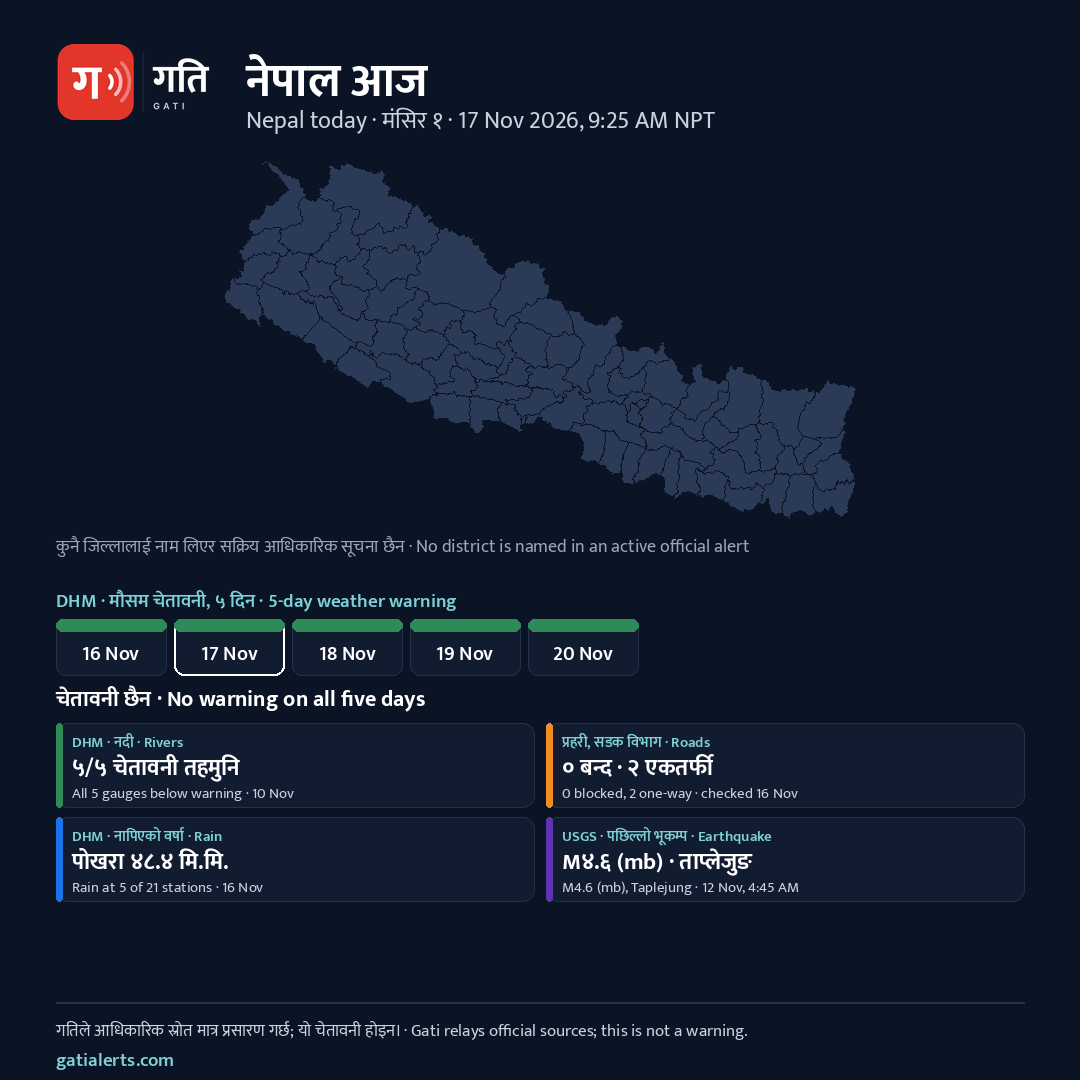
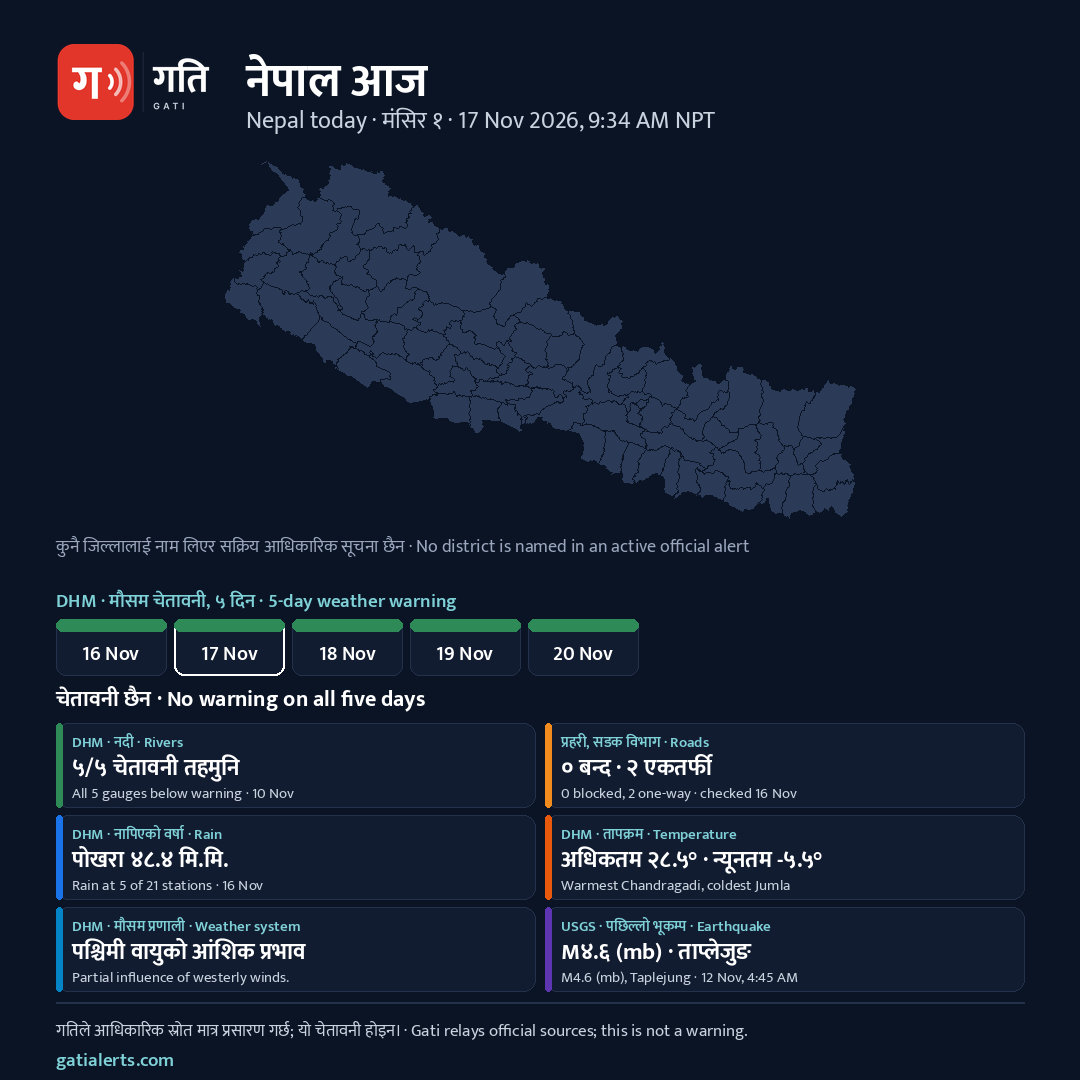
Nepal Now: a status line and real figures; six tiles on the today card
Home: the Nepal Now section opens with one sentence (no district under
alert, or which districts are) and when it was updated. The four
counters, mostly zeros on a calm day, become a 'Right now' list: alerts,
today's DHM warning, roads, rivers, measured rain, the latest
earthquake and Kathmandu airport visibility, each from its own agency
and each a link to its page. The reader's district is outlined on the
map. Category tabs keep their own counters.

Today card: adds temperature (warmest and coldest DHM stations) and
DHM's weather system line, for six tiles in three rows.

Claude-Session: https://claude.ai/code/session_017L571acW9jCVHkJzEctd51

Changed region(s): [[0.4889, 0.6722, 0.7639, 0.9167], [0.0306, 0.7639, 0.275, 0.9167], [0.55, 0.0917, 0.6417, 0.1222]]

diff --git a/lite/index.html b/lite/index.html
@@ -17,11 +17,11 @@
 </head><body>
 <h1>गति Lite · सही सूचना, सही समयमा ।</h1>
 <p><small><a class="rl" href="../about/">गतिले आधिकारिक स्रोत मात्र प्रसारण गर्छ</a></small></p>
-<p><small>बनाइएको: नोभेम्बर १७, २०२६ · ९:२५ NPT · <a href="#en">English</a> · <a href="../">पूरा साइट</a></small></p>
+<p><small>बनाइएको: नोभेम्बर १७, २०२६ · ९:३४ NPT · <a href="#en">English</a> · <a href="../">पूरा साइट</a></small></p>
 <h2>चालु सूचना (१)</h2><ul><li><b>[सामान्य · आधिकारिक]</b> DHM: कात्तिक ३० देखि मंसिर ४ सम्म पाँचै दिन देशभर कुनै मौसम चेतावनी छैन (हरियो)<br><small>स्रोत: <a href="https://dhm.gov.np/mfd/#/weather/pages/weather-warning/12431">जल तथा मौसम विज्ञान विभाग, मौसम पूर्वानुमान महाशाखा</a>, नोभेम्बर १६, २०२६ · ८:०० NPT · <a href="../alerts/np.gati.dhm-5day-bulletin-2026-11-16-0800/">पूरा</a></small></li></ul><h2>मुख्य सडक</h2><p><small>नोभेम्बर १६ (कात्तिक ३०), बिहान ९:२० NPT मा जाँचेको</small></p><ul><li>काठमाडौँ–गजुरी–मुग्लिङ (पृथ्वी): <b>खुला</b></li><li>मुग्लिङ–पोखरा: <b>खुला</b></li><li>मुग्लिङ–नारायणघाट: <b>खुला</b></li><li>नारायणघाट–बुटवल: <b>खुला</b></li><li>काठमाडौँ–हेटौँडा (त्रिभुवन राजपथ): <b>खुला</b></li><li>काठमाडौँ–सिन्धुली–बर्दिबास (बीपी): <b>खुला</b></li><li>नारायणघाट–हेटौँडा: <b>खुला</b></li><li>हेटौँडा–पथलैया: <b>खुला</b></li><li>काठमाडौँ–धुन्चे (पासाङ ल्हामु): <b>स्थिति पुष्टि भएन</b></li><li>काठमाडौँ–कोदारी (अरनिको): <b>स्थिति पुष्टि भएन</b></li><li>पोखरा–बागलुङ: <b>खुला</b></li><li>बुटवल–पाल्पा (सिद्धार्थ): <b>खुला</b></li><li>बुटवल–नेपालगन्ज (पूर्व–पश्चिम): <b>खुला</b></li><li>नेपालगन्ज–धनगढी (पूर्व–पश्चिम): <b>खुला</b></li><li>पथलैया–बर्दिबास (पूर्व–पश्चिम): <b>खुला</b></li><li>बर्दिबास–इटहरी (पूर्व–पश्चिम): <b>खुला</b></li><li>इटहरी–काँकडभिट्टा (पूर्व–पश्चिम): <b>खुला</b></li><li>राप्ती राजमार्ग: लमही–घोराही–तुलसीपुर: <b>स्थिति पुष्टि भएन</b></li><li>रत्न राजमार्ग: कोहलपुर–सुर्खेत: <b>स्थिति पुष्टि भएन</b></li><li>पूर्व–पश्चिम (महेन्द्र) राजमार्ग: अत्तरिया–महेन्द्रनगर: <b>स्थिति पुष्टि भएन</b></li><li>अत्तरिया–डडेलधुरा सडक: <b>स्थिति पुष्टि भएन</b></li><li>बागलुङ–बेनी (कालीगण्डकी करिडोर): <b>स्थिति पुष्टि भएन</b></li><li>बेनी–जोमसोम (बेनी–जोमसोम–कोरला, कालीगण्डकी करिडोर): <b>स्थिति पुष्टि भएन</b></li><li>डुम्रे–बेसीशहर (मध्यमस्याङ्दी सडक): <b>स्थिति पुष्टि भएन</b></li><li>आँबुखैरेनी–गोरखा सडक: <b>स्थिति पुष्टि भएन</b></li><li>बुटवल–भैरहवा (सिद्धार्थ राजमार्ग)–लुम्बिनी: <b>स्थिति पुष्टि भएन</b></li><li>पाल्पा–वालिङ–स्याङ्जा–पोखरा (सिद्धार्थ राजमार्ग): <b>स्थिति पुष्टि भएन</b></li><li>इटहरी–विराटनगर (कोशी राजमार्ग): <b>स्थिति पुष्टि भएन</b></li><li>ढल्केबर–जनकपुर सडक: <b>स्थिति पुष्टि भएन</b></li><li>पथलैया–वीरगन्ज (त्रिभुवन राजपथ): <b>स्थिति पुष्टि भएन</b></li><li>कर्णाली राजमार्ग: सुर्खेत–मान्म–जुम्ला: <b>एकतर्फी</b></li><li>जोमसोम–कागबेनी–मुक्तिनाथ: <b>एकतर्फी</b></li><li>बिर्तामोड–इलाम (मेची राजमार्ग): <b>स्थिति पुष्टि भएन</b></li><li>इटहरी–धरान–धनकुटा (कोशी राजमार्ग): <b>स्थिति पुष्टि भएन</b></li><li>इलाम–फिदिम (पाँचथर) सडक: <b>स्थिति पुष्टि भएन</b></li><li>फिदिम (पाँचथर)–फुङलिङ (ताप्लेजुङ) सडक: <b>स्थिति पुष्टि भएन</b></li><li>बिर्तामोड–भद्रपुर (झापा) सडक: <b>स्थिति पुष्टि भएन</b></li><li>इटहरी–इनरुवा (सुनसरी) सडक: <b>स्थिति पुष्टि भएन</b></li><li>धनकुटा–म्याङलुङ (तेह्रथुम) सडक: <b>स्थिति पुष्टि भएन</b></li><li>धनकुटा–खाँदबारी (संखुवासभा) सडक: <b>स्थिति पुष्टि भएन</b></li><li>धनकुटा–भोजपुर सडक: <b>स्थिति पुष्टि भएन</b></li><li>लहान–राजविराज (सप्तरी) सडक: <b>स्थिति पुष्टि भएन</b></li><li>लहान–सिरहा सडक: <b>स्थिति पुष्टि भएन</b></li><li>जनकपुर–जलेश्वर (महोत्तरी) सडक: <b>स्थिति पुष्टि भएन</b></li><li>बर्दिबास–मलङ्गवा (सर्लाही) सडक: <b>स्थिति पुष्टि भएन</b></li><li>पथलैया–गौर (रौतहट) सडक: <b>स्थिति पुष्टि भएन</b></li><li>पथलैया–कलैया (बारा) सडक: <b>स्थिति पुष्टि भएन</b></li><li>सिन्धुली–मन्थली (रामेछाप) सडक: <b>स्थिति पुष्टि भएन</b></li><li>काठमाडौँ–धुलिखेल (काभ्रे) सडक: <b>स्थिति पुष्टि भएन</b></li><li>काठमाडौँ–भक्तपुर सडक: <b>स्थिति पुष्टि भएन</b></li><li>काठमाडौँ–ललितपुर सडक: <b>स्थिति पुष्टि भएन</b></li><li>धुलिखेल (काभ्रे)–चरिकोट (दोलखा) सडक: <b>स्थिति पुष्टि भएन</b></li><li>धुलिखेल (काभ्रे)–चौतारा (सिन्धुपाल्चोक) सडक: <b>स्थिति पुष्टि भएन</b></li><li>काठमाडौँ–विदुर (नुवाकोट) सडक: <b>स्थिति पुष्टि भएन</b></li><li>गलौँदी–धादिङबेसी सडक: <b>स्थिति पुष्टि भएन</b></li><li>बेसीशहर–चामे (मनाङ) सडक: <b>स्थिति पुष्टि भएन</b></li><li>पोखरा–कुश्मा (पर्वत) सडक: <b>स्थिति पुष्टि भएन</b></li><li>नारायणघाट–कावासोती (नवलपुर) सडक: <b>स्थिति पुष्टि भएन</b></li><li>बुटवल–परासी (नवलपरासी पश्चिम) सडक: <b>स्थिति पुष्टि भएन</b></li><li>बुटवल–तौलिहवा (कपिलवस्तु) सडक: <b>स्थिति पुष्टि भएन</b></li><li>पाल्पा (तानसेन)–सन्धिखर्क (अर्घाखाँची) सडक: <b>स्थिति पुष्टि भएन</b></li><li>पाल्पा (तानसेन)–तम्घास (गुल्मी) सडक: <b>स्थिति पुष्टि भएन</b></li><li>लमही–प्युठान खलङ्गा सडक: <b>स्थिति पुष्टि भएन</b></li><li>घोराही (दाङ)–लिबाङ (रोल्पा) सडक: <b>स्थिति पुष्टि भएन</b></li><li>नेपालगन्ज–गुलरिया (बर्दिया) सडक: <b>स्थिति पुष्टि भएन</b></li><li>तुलसीपुर (दाङ)–सल्यान खलङ्गा सडक: <b>स्थिति पुष्टि भएन</b></li><li>सल्यान खलङ्गा–मुसिकोट (रुकुम पश्चिम) सडक: <b>स्थिति पुष्टि भएन</b></li><li>सुर्खेत (वीरेन्द्रनगर)–दैलेख सडक: <b>स्थिति पुष्टि भएन</b></li><li>डडेलधुरा–दिपायल (डोटी) सडक: <b>स्थिति पुष्टि भएन</b></li><li>दिपायल (डोटी)–मंगलसेन (अछाम) सडक: <b>स्थिति पुष्टि भएन</b></li><li>मंगलसेन (अछाम)–मार्तडी (बाजुरा) सडक: <b>स्थिति पुष्टि भएन</b></li><li>डडेलधुरा–दशरथचन्द (बैतडी) सडक: <b>स्थिति पुष्टि भएन</b></li><li>लहान–गाईघाट (उदयपुर) सडक: <b>स्थिति पुष्टि भएन</b></li><li>गाईघाट (उदयपुर)–दिक्तेल (खोटाङ) सडक: <b>स्थिति पुष्टि भएन</b></li><li>गाईघाट (उदयपुर)–ओखलढुङ्गा सडक: <b>स्थिति पुष्टि भएन</b></li><li>मुसिकोट (रुकुम पश्चिम)–रुकुमकोट (रुकुम पूर्व) सडक: <b>स्थिति पुष्टि भएन</b></li><li>जुम्ला (खलङ्गा)–गमगढी (मुगु) सडक: <b>स्थिति पुष्टि भएन</b></li><li>दिपायल (डोटी)–चैनपुर (बझाङ) सडक: <b>स्थिति पुष्टि भएन</b></li><li>ओखलढुङ्गा–सल्लेरी (सोलुखुम्बु) सडक: <b>स्थिति पुष्टि भएन</b></li><li>जुम्ला (खलङ्गा)–सिमकोट (हुम्ला) सडक: <b>स्थिति पुष्टि भएन</b></li></ul><h2>नदी</h2><p><small>नोभेम्बर १० (कात्तिक २४), बिहान ८:४० देखि ८:५० NPT बीचको पठन · <a href="https://dhm.gov.np/hydrology/river-watch">DHM</a></small></p><ul><li>नारायणी · देवघाट: ३.४ मि. (चेतावनी ७.३)</li><li>कर्णाली · चिसापानी: ४.२ मि. (चेतावनी १०.०)</li><li>कन्काई · मैनाचुली: २.३ मि. (चेतावनी ३.८)</li><li>बबई · चेपाङ: २.२ मि. (चेतावनी ५.५)</li><li>महाकाली · परिगाउँ: ३.६ मि. (चेतावनी ६.८)</li></ul>
 <hr><h2 id="en" class="h1like">Gati Lite · The right alert, right on time.</h2>
 <p><small><a class="rl" href="../about/">Gati relays official sources</a></small></p>
-<p><small>Built: 17 Nov 2026 · 9:25 AM NPT · <a href="../">Full site</a> · <a href="../atom.xml">Atom feed</a></small></p>
+<p><small>Built: 17 Nov 2026 · 9:34 AM NPT · <a href="../">Full site</a> · <a href="../atom.xml">Atom feed</a></small></p>
 <h2>Active alerts (1)</h2><ul><li><b>[Minor · Official]</b> DHM: no weather warning anywhere in Nepal for all five days, Kartik 30 to Mangsir 4 (16 to 20 Nov)<br><small>Source: <a href="https://dhm.gov.np/mfd/#/weather/pages/weather-warning/12431">Department of Hydrology and Meteorology (DHM), Meteorological Forecasting Division</a>, 16 Nov 2026 · 8:00 AM NPT · <a href="../alerts/np.gati.dhm-5day-bulletin-2026-11-16-0800/">More</a></small></li></ul><h2>Main roads</h2><p><small>checked 16 Nov (Kartik 30), 9:20 AM NPT</small></p><ul><li>Kathmandu–Gajuri–Mugling (Prithvi): <b>Open</b></li><li>Mugling–Pokhara: <b>Open</b></li><li>Mugling–Narayanghat: <b>Open</b></li><li>Narayanghat–Butwal: <b>Open</b></li><li>Kathmandu–Hetauda (Tribhuvan Rajpath): <b>Open</b></li><li>Kathmandu–Sindhuli–Bardibas (BP): <b>Open</b></li><li>Narayanghat–Hetauda: <b>Open</b></li><li>Hetauda–Pathlaiya: <b>Open</b></li><li>Kathmandu–Dhunche (Pasang Lhamu): <b>Not confirmed</b></li><li>Kathmandu–Kodari (Araniko): <b>Not confirmed</b></li><li>Pokhara–Baglung: <b>Open</b></li><li>Butwal–Palpa (Siddhartha): <b>Open</b></li><li>Butwal–Nepalgunj (East–West): <b>Open</b></li><li>Nepalgunj–Dhangadhi (East–West): <b>Open</b></li><li>Pathlaiya–Bardibas (East–West): <b>Open</b></li><li>Bardibas–Itahari (East–West): <b>Open</b></li><li>Itahari–Kakarbhitta (East–West): <b>Open</b></li><li>Rapti Highway: Lamahi–Ghorahi–Tulsipur: <b>Not confirmed</b></li><li>Ratna Highway: Kohalpur–Surkhet: <b>Not confirmed</b></li><li>East–West (Mahendra) Highway: Attariya–Mahendranagar: <b>Not confirmed</b></li><li>Attariya–Dadeldhura road: <b>Not confirmed</b></li><li>Baglung–Beni (Kaligandaki corridor): <b>Not confirmed</b></li><li>Beni–Jomsom (Beni–Jomsom–Korala, Kaligandaki corridor): <b>Not confirmed</b></li><li>Dumre–Besisahar (Madhyamarsyangdi road): <b>Not confirmed</b></li><li>Abukhaireni–Gorkha road: <b>Not confirmed</b></li><li>Butwal–Bhairahawa (Siddhartha Highway)–Lumbini: <b>Not confirmed</b></li><li>Palpa–Waling–Syangja–Pokhara (Siddhartha Highway): <b>Not confirmed</b></li><li>Itahari–Biratnagar (Koshi Highway): <b>Not confirmed</b></li><li>Dhalkebar–Janakpur road: <b>Not confirmed</b></li><li>Pathlaiya–Birgunj (Tribhuvan Rajpath): <b>Not confirmed</b></li><li>Karnali Highway: Surkhet–Manma–Jumla: <b>One-way</b></li><li>Jomsom–Kagbeni–Muktinath: <b>One-way</b></li><li>Birtamod–Ilam (Mechi Highway): <b>Not confirmed</b></li><li>Itahari–Dharan–Dhankuta (Koshi Highway): <b>Not confirmed</b></li><li>Ilam–Phidim (Panchthar) road: <b>Not confirmed</b></li><li>Phidim (Panchthar)–Phungling (Taplejung) road: <b>Not confirmed</b></li><li>Birtamod–Bhadrapur (Jhapa) road: <b>Not confirmed</b></li><li>Itahari–Inaruwa (Sunsari) road: <b>Not confirmed</b></li><li>Dhankuta–Myanglung (Terhathum) road: <b>Not confirmed</b></li><li>Dhankuta–Khandbari (Sankhuwasabha) road: <b>Not confirmed</b></li><li>Dhankuta–Bhojpur road: <b>Not confirmed</b></li><li>Lahan–Rajbiraj (Saptari) road: <b>Not confirmed</b></li><li>Lahan–Siraha road: <b>Not confirmed</b></li><li>Janakpur–Jaleshwar (Mahottari) road: <b>Not confirmed</b></li><li>Bardibas–Malangwa (Sarlahi) road: <b>Not confirmed</b></li><li>Pathlaiya–Gaur (Rautahat) road: <b>Not confirmed</b></li><li>Pathlaiya–Kalaiya (Bara) road: <b>Not confirmed</b></li><li>Sindhuli–Manthali (Ramechhap) road: <b>Not confirmed</b></li><li>Kathmandu–Dhulikhel (Kavre) road: <b>Not confirmed</b></li><li>Kathmandu–Bhaktapur road: <b>Not confirmed</b></li><li>Kathmandu–Lalitpur road: <b>Not confirmed</b></li><li>Dhulikhel (Kavre)–Charikot (Dolakha) road: <b>Not confirmed</b></li><li>Dhulikhel (Kavre)–Chautara (Sindhupalchok) road: <b>Not confirmed</b></li><li>Kathmandu–Bidur (Nuwakot) road: <b>Not confirmed</b></li><li>Galaudi–Dhading Besi road: <b>Not confirmed</b></li><li>Besisahar–Chame (Manang) road: <b>Not confirmed</b></li><li>Pokhara–Kusma (Parbat) road: <b>Not confirmed</b></li><li>Narayanghat–Kawasoti (Nawalpur) road: <b>Not confirmed</b></li><li>Butwal–Parasi (Nawalparasi West) road: <b>Not confirmed</b></li><li>Butwal–Taulihawa (Kapilvastu) road: <b>Not confirmed</b></li><li>Palpa (Tansen)–Sandhikharka (Arghakhanchi) road: <b>Not confirmed</b></li><li>Palpa (Tansen)–Tamghas (Gulmi) road: <b>Not confirmed</b></li><li>Lamahi–Pyuthan Khalanga road: <b>Not confirmed</b></li><li>Ghorahi (Dang)–Liwang (Rolpa) road: <b>Not confirmed</b></li><li>Nepalgunj–Gulariya (Bardiya) road: <b>Not confirmed</b></li><li>Tulsipur (Dang)–Salyan Khalanga road: <b>Not confirmed</b></li><li>Salyan Khalanga–Musikot (Rukum West) road: <b>Not confirmed</b></li><li>Surkhet (Birendranagar)–Dailekh road: <b>Not confirmed</b></li><li>Dadeldhura–Dipayal (Doti) road: <b>Not confirmed</b></li><li>Dipayal (Doti)–Mangalsen (Achham) road: <b>Not confirmed</b></li><li>Mangalsen (Achham)–Martadi (Bajura) road: <b>Not confirmed</b></li><li>Dadeldhura–Dasharathchand (Baitadi) road: <b>Not confirmed</b></li><li>Lahan–Gaighat (Udayapur) road: <b>Not confirmed</b></li><li>Gaighat (Udayapur)–Diktel (Khotang) road: <b>Not confirmed</b></li><li>Gaighat (Udayapur)–Okhaldhunga road: <b>Not confirmed</b></li><li>Musikot (Rukum West)–Rukumkot (Rukum East) road: <b>Not confirmed</b></li><li>Jumla (Khalanga)–Gamgadhi (Mugu) road: <b>Not confirmed</b></li><li>Dipayal (Doti)–Chainpur (Bajhang) road: <b>Not confirmed</b></li><li>Okhaldhunga–Salleri (Solukhumbu) road: <b>Not confirmed</b></li><li>Jumla (Khalanga)–Simikot (Humla) road: <b>Not confirmed</b></li></ul><h2>Rivers</h2><p><small>10 Nov (Kartik 24), readings 8:40 to 8:50 AM NPT · <a href="https://dhm.gov.np/hydrology/river-watch">DHM</a></small></p><ul><li>Narayani at Devghat: 3.4 m (warning 7.3)</li><li>Karnali at Chisapani: 4.2 m (warning 10.0)</li><li>Kankai at Mainachuli: 2.3 m (warning 3.8)</li><li>Babai at Chepang: 2.2 m (warning 5.5)</li><li>Mahakali at Parigaon: 3.6 m (warning 6.8)</li></ul>
 <hr><footer><p class="d"><strong>गति आफैँ कुनै आधिकारिक चेतावनी जारी गर्दैन।</strong> यसले जिम्मेवार सरकारी निकायकै सूचना, स्रोतसहित, फैलाउने र जाँच्ने काम मात्र गर्छ (विपद् जोखिम न्यूनीकरण तथा व्यवस्थापन ऐन, २०७४)। आपत्कालमा १००, १०१, १०२ वा १२३४ मा फोन गर्नुहोस्।</p><p class="d"><strong>Gati does not issue official warnings.</strong> It only relays and verifies notices from the mandated government agencies, always with the source (Disaster Risk Reduction and Management Act 2074). In an emergency call 100, 101, 102 or 1234.</p></footer>
 <hr><p><small>प्रहरी १०० · दमकल १०१ · एम्बुलेन्स १०२ · विपद् १२३४ · <a href="../alerts/">सबै सूचना / Archive</a> · <a href="../sources/">स्रोत / Sources</a></small></p>

diff --git a/assets/js/homemap.js b/assets/js/homemap.js
@@ -24,11 +24,11 @@
     fetch(`https://air-quality-api.open-meteo.com/v1/air-quality?latitude=${CITIES.map((c) => c[2]).join(",")}&longitude=${CITIES.map((c) => c[3]).join(",")}&current=us_aqi&timezone=Asia%2FKathmandu`).then((r) => (r.ok ? r.json() : null))
       .then((d) => { AQ = d ? (Array.isArray(d) ? d : [d]) : []; if (cat === "weather") draw(); }).catch(() => { AQ = []; if (cat === "weather") draw(); }); }
   const QMS = 30 * 864e5, qmag = (a) => parseFloat((a.info.en.params || {})["gati:magnitude"] || "") || null;
-  const go = () => Promise.all(["data/districts.geojson", "data/alerts.json", "data/arnab-advisory.json", "data/roads.json", "data/rivers.json"].map((p) => G.rawJson(p).catch(() => null))).then(([dg, al, ar, rd, rv]) => {
+  const go = () => Promise.all(["data/districts.geojson", "data/alerts.json", "data/arnab-advisory.json", "data/roads.json", "data/rivers.json", "data/weather.json"].map((p) => G.rawJson(p).catch(() => null))).then(([dg, al, ar, rd, rv, wx]) => {
     if (!dg || !al) { box.querySelector(".hmw").innerHTML = `<p class="meta">${T("नक्सा लोड भएन।", "Map could not load.")}</p>`; return; }
-    S = { dg, al: al.alerts, ar, rd, rv, paths: {}, cen: {} }; dg.features.forEach((f) => { S.paths[f.properties.code] = pth(f.geometry); S.cen[f.properties.code] = ctr(f.geometry); });
+    S = { dg, al: al.alerts, gen: al.generated, ar, rd, rv, wx, paths: {}, cen: {} }; dg.features.forEach((f) => { S.paths[f.properties.code] = pth(f.geometry); S.cen[f.properties.code] = ctr(f.geometry); });
     if (ar && today <= ar.days[ar.days.length - 1].ad) { const i = ar.days.findIndex((d) => d.ad >= today); day = ar.days[Math.max(0, i)].ad; }
-    draw(); G.onLang(draw);
+    draw(); G.onLang(draw); addEventListener("gati:district", draw); if (G.airwx) { G.airwx.on(() => cat === "all" && !sel && draw()); G.airwx.load(); }
   });
   if ("IntersectionObserver" in window) { const io = new IntersectionObserver((es) => { if (es.some((e) => e.isIntersecting)) { io.disconnect(); go(); } }, { rootMargin: "300px" }); io.observe(box); } else go();
   /* active items for the chosen day (or now): official, not expired, not superseded */
@@ -43,8 +43,9 @@
   function draw() {
     const L = items(), top = {}, nat = L.filter((x) => !x.ds.length);
     L.forEach((x) => x.ds.forEach((c) => { if ((RK[x.sev] || 0) > (RK[top[c]] || 0)) top[c] = x.sev; }));
+    const mine = (G.district && G.district.get && G.district.get()) || "";
     const dist = S.dg.features.map((f) => { const c = f.properties.code, s = top[c];
-      return `<path d="${S.paths[c]}" data-c="${c}" class="hmd${s ? " s-" + s : ""}${sel === c ? " on" : ""}" tabindex="0" role="button" aria-label="${E(T(f.properties.ne, f.properties.en))}${s ? ": " + E(T(G.SEV[s][0], G.SEV[s][1])) : ""}"/>`; }).join("");
+      return `<path d="${S.paths[c]}" data-c="${c}" class="hmd${s ? " s-" + s : ""}${sel === c ? " on" : ""}${mine === c ? " me" : ""}" tabindex="0" role="button" aria-label="${E(T(f.properties.ne, f.properties.en))}${s ? ": " + E(T(G.SEV[s][0], G.SEV[s][1])) : ""}"/>`; }).join("");
     /* small icons: blocked roads (Nepal Police road alerts by district; roads.json routes marked blocked) and DHM gauges at warning or danger */
     const ic = [];
     (cat === "all" || cat === "road") && L.filter((x) => x.road).forEach((x) => x.ds.forEach((c) => S.cen[c] && ic.push(`<g class="hmi hmr" transform="translate(${X(S.cen[c][0])},${Y(S.cen[c][1])})"><title>${E(x.head)}</title><rect x="-6" y="-6" width="12" height="12" rx="2.5"/><path class="hmbar" d="M-3.6 0H3.6"/></g>`)));
@@ -84,11 +85,38 @@
     const nRoad = ic.slice(0, icA).filter((x) => x.includes("hmr")).length;
     const stat = (n, ne, en, k) => `<div class="hmst${n ? " " + k : ""}"><b>${N(n)}</b><span>${T(ne, en)}</span></div>`;
     const stats = `<div class="hmstats">${stat(named.length, "सूचना भएका जिल्ला", "Districts with alerts", "a")}${cat === "all" || cat === "road" ? stat(nRoad, "सडक अवरुद्ध", "Roads blocked", "r") : ""}${cat === "all" || cat === "flood" ? stat(hot.length, "नदी चेतावनी तहमा", "Rivers at warning", "v") : ""}${stat(nat.length, "देशव्यापी सूचना", "Nationwide notices", "n")}</div>`;
+    /* "Right now": one line per subject, each from its own agency, each a link to its page. Never added together. */
+    const MO = ["Jan", "Feb", "Mar", "Apr", "May", "Jun", "Jul", "Aug", "Sep", "Oct", "Nov", "Dec"], MON = ["जनवरी", "फेब्रुअरी", "मार्च", "अप्रिल", "मे", "जुन", "जुलाई", "अगस्ट", "सेप्टेम्बर", "अक्टोबर", "नोभेम्बर", "डिसेम्बर"];
+    const dm = (iso) => { const d = new Date(Date.parse(iso) + G.tzMs); return isNaN(d) ? "" : T(MON[d.getUTCMonth()] + " " + N(d.getUTCDate()), d.getUTCDate() + " " + MO[d.getUTCMonth()]); };
+    const GOOD = "#1e8e3e", WARN = "#B26A00", BAD = "#C5221F", INFO = "#5E35B1", rows = [];
+    const sevCol = { Extreme: "#8E1B14", Severe: BAD, Moderate: "#E8590C", Minor: WARN };
+    rows.push({ href: R + "alerts/", c: named.length ? sevCol[top[named[0]]] || WARN : GOOD, k: T("सूचना", "Alerts"),
+      v: named.length ? T(N(named.length) + " जिल्लामा सक्रिय", named.length + " district" + (named.length > 1 ? "s" : "") + " under alert") : T("जिल्ला तोकिएको सूचना छैन", "No district alert"),
+      n: named.length ? named.slice(0, 3).map(fname).join(", ") + (named.length > 3 ? " +" + N(named.length - 3) : "") : T("आधिकारिक निकायबाट", "from official agencies") });
+    const b5 = S.wx && S.wx.bulletin5, d0 = b5 && b5.days && (b5.days.find((x) => x.ad === today) || null);
+    if (d0) { const LVN = { green: ["चेतावनी छैन", "No warning", GOOD], yellow: ["अद्यावधिक रहनुहोस्", "Be updated", WARN], orange: ["सतर्क रहनुहोस्", "Be prepared", "#E8590C"], red: ["कारबाही गर्नुहोस्", "Take action", BAD] }[d0.level] || ["", "", GOOD];
+      const nx = b5.days.find((x) => x.ad > today && x.level !== "green");
+      rows.push({ href: R + "weather/", c: LVN[2], k: T("आजको मौसम चेतावनी", "Weather warning today"), v: T(LVN[0], LVN[1]), n: "DHM · " + (nx ? T("अर्को चेतावनी " + dm(nx.ad + "T12:00:00+05:45"), "next warning " + dm(nx.ad + "T12:00:00+05:45")) : T("५ दिनमा अरू चेतावनी छैन", "none in the 5-day outlook")) }); }
+    if (S.rd && S.rd.routes) { const c = (st) => S.rd.routes.filter((r) => r.status === st).length, bl = c("blocked"), ow = c("oneway");
+      rows.push({ href: R + "roads/", c: bl ? BAD : ow ? WARN : GOOD, k: T("मुख्य सडक", "Main roads"), v: T(N(bl) + " बन्द · " + N(ow) + " एकतर्फी", bl + " blocked · " + ow + " one-way"), n: T("प्रहरी, सडक विभाग", "Police, DoR") + " · " + E(T(S.rd.as_of_ne, S.rd.as_of_en).split(/\s*\(|,/)[0]) }); }
+    if (S.rv && S.rv.gauges && S.rv.gauges.length) { const h = S.rv.gauges.filter((g) => g.level >= g.warning).length, n = S.rv.gauges.length;
+      rows.push({ href: R + "rivers/", c: h ? BAD : GOOD, k: T("नदी", "Rivers"), v: h ? T(N(h) + "/" + N(n) + " चेतावनी तहमाथि", h + " of " + n + " above warning") : T(N(n) + "/" + N(n) + " चेतावनी तहमुनि", "All " + n + " below warning"), n: "DHM · " + E(T(S.rv.as_of_ne, S.rv.as_of_en).split(/\s*\(|,/)[0]) }); }
+    const ob = S.wx && S.wx.station_obs;
+    if (ob && ob.stations && ob.stations.length) { const wet = ob.stations.filter((x) => (x.rain_mm || 0) > 0).sort((a, b) => b.rain_mm - a.rain_mm);
+      rows.push({ href: R + "weather/", c: wet.length ? "#1a73e8" : GOOD, k: T("नापिएको वर्षा", "Measured rain"), v: wet.length ? E(T(wet[0].ne, wet[0].en)) + " " + N(wet[0].rain_mm) + T(" मि.मि.", " mm") : T("कुनै केन्द्रमा छैन", "None recorded"),
+        n: "DHM · " + T(N(wet.length) + "/" + N(ob.stations.length) + " केन्द्रमा", wet.length + " of " + ob.stations.length + " stations") + " · " + dm(ob.issued) }); }
+    const lastq = S.al.filter((a) => a.hazard === "earthquake" && a.trust === "Official").sort((a, b) => Date.parse(b.sent) - Date.parse(a.sent))[0];
+    if (lastq) { const m = ((lastq.info.en.params || {})["gati:magnitude"] || "").replace(/\s*\(.*\)/, ""), where = (lastq.districts || []).slice(0, 1).map(fname).join("");
+      rows.push({ href: R + "alerts/" + lastq.identifier + "/", c: INFO, k: T("पछिल्लो भूकम्प", "Latest earthquake"), v: E(N(m) + (where ? " · " + where : "")), n: E(AG[lastq.sender] ? T(...AG[lastq.sender]) : ({ "earthquake.usgs.gov": "USGS", "seismonepal.gov.np": "NSC" })[lastq.sender] || lastq.sender) + " · " + dm(lastq.sent) }); }
+    if (G.airwx) { const kt = G.airwx.all().find((x) => x.a.icao === "VNKT" && x.o);
+      if (kt) rows.push({ href: R + "flights/", c: G.airwx.CAT[kt.cat][2], k: T("काठमाडौँ विमानस्थल", "Kathmandu airport"), v: T("दृश्यता ", "Visibility ") + G.airwx.km(kt.o.vis), n: kt.o.kind === "official" ? "METAR · " + dm(kt.o.time) : T("मोडेलको अनुमान", "model estimate") }); }
+    const nowlist = `<ul class="hmnow">${rows.map((r) => `<li><a href="${r.href}" style="--c:${r.c}"><i aria-hidden="true"></i><span class="hmk">${r.k}</span><b>${r.v}</b><small>${r.n}</small></a></li>`).join("")}</ul>`;
+    const calm = !named.length, status = cat !== "all" ? "" : `<p class="hmstatus${calm ? " ok" : ""}" style="--c:${calm ? GOOD : sevCol[top[named[0]]] || WARN}"><b>${calm ? T("अहिले कुनै जिल्लामा सक्रिय आधिकारिक सूचना छैन।", "No district is under an active official alert right now.") : T(N(named.length) + " जिल्लामा सक्रिय आधिकारिक सूचना: " + named.slice(0, 4).map(fname).join(", ") + (named.length > 4 ? " …" : ""), named.length + " district" + (named.length > 1 ? "s" : "") + " under an active official alert: " + named.slice(0, 4).map(fname).join(", ") + (named.length > 4 ? " …" : ""))}</b>${S.gen ? `<span>${T("अद्यावधिक", "Updated")} ${G.npt(S.gen)}</span>` : ""}</p>`;
     const dlist = named.length ? `<ul class="hmdl">${named.slice(0, 8).map((c) => `<li><button type="button" data-c="${c}"${sel === c ? ' aria-pressed="true"' : ""}><i class="s-${top[c]}"></i><span>${E(fname(c))}</span><em>${E(T(G.SEV[top[c]][0], G.SEV[top[c]][1]))}${cnt[c] > 1 ? " · " + N(cnt[c]) : ""}</em></button></li>`).join("")}</ul>${named.length > 8 ? `<p class="meta">${T("र अरू " + N(named.length - 8) + " जिल्ला। नक्सामा हेर्नुहोस्।", "and " + (named.length - 8) + " more districts. See the map.")}</p>` : ""}` : `<p class="hmcalm">${T("कुनै जिल्लालाई नाम लिएर सक्रिय आधिकारिक सूचना छैन।", "No district is named in an active official alert.")}</p>`;
     /* names on the map for the districts with alerts (largest screens only, set in CSS) */
     const lab = named.slice(0, 10).map((c) => S.cen[c] ? `<text class="hmlab" x="${X(S.cen[c][0])}" y="${(+Y(S.cen[c][1]) - 13).toFixed(1)}">${E(fname(c))}</text>` : "").join("");
-    box.innerHTML = `${head}${none}${slider}<div class="hmgrid"><div class="hmmain"><div class="hmw"><svg viewBox="0 0 ${W} ${H}" preserveAspectRatio="xMidYMid meet" class="hmsvg"><g class="hmland">${dist}</g>${ic.join("")}${lab}</svg></div>${leg}</div>
-      <aside class="hmside" aria-label="${E(T("अहिलेको सारांश", "Right now"))}"><h3>${T("अहिले", "Right now")}</h3>${stats}<h3>${T("सूचना भएका जिल्ला", "Districts with alerts")}</h3>${dlist}<div class="hmsheet" id="hmsheet" aria-live="polite">${sel ? sheet(sel, L) : ""}</div></aside></div>${cxtxt}${note}
+    box.innerHTML = `${head}${cat === "all" ? status : none}${slider}<div class="hmgrid"><div class="hmmain"><div class="hmw"><svg viewBox="0 0 ${W} ${H}" preserveAspectRatio="xMidYMid meet" class="hmsvg"><g class="hmland">${dist}</g>${ic.join("")}${lab}</svg></div>${leg}</div>
+      <aside class="hmside" aria-label="${E(T("अहिलेको सारांश", "Right now"))}"><h3>${T("अहिले", "Right now")}</h3>${cat === "all" ? nowlist + (named.length ? `<h3>${T("सूचना भएका जिल्ला", "Districts with alerts")}</h3>${dlist}` : "") : stats + `<h3>${T("सूचना भएका जिल्ला", "Districts with alerts")}</h3>${dlist}`}<div class="hmsheet" id="hmsheet" aria-live="polite">${sel ? sheet(sel, L) : ""}</div></aside></div>${cxtxt}${note}
       ${nat.length ? `<details class="hmnat"${cat === "weather" ? " open" : ""}><summary>${T("देशव्यापी आधिकारिक सूचना", "Nationwide official notices")}: ${[...new Set(nat.map((x) => x.ag))].map((a) => `${E(a)} ${N(nat.filter((x) => x.ag === a).length)}`).join(" · ")}</summary>${list(nat)}</details>` : ""}
 `;
     bind();

diff --git a/sw.js b/sw.js
@@ -1,7 +1,7 @@
 /* Gati service worker: offline last-known state. Push only behind a flag (needs VAPID keys and a sender).
    Pages and data: network first, fall back to the last copy saved. Assets: cache first, refreshed in the background. */
 const VERSION = "gati-v140";
-const BUILD = "20261117T0926"; /* written by scripts/stamp.py (pre-commit hook and render.py) */
+const BUILD = "20261117T0934"; /* written by scripts/stamp.py (pre-commit hook and render.py) */
 const CACHE_NAME = VERSION + "-" + BUILD;
 const CORE = ["./", "index.html", "sources/", "about/", "me/", "assets/js/me.js", "notifications/", "assets/js/notif.js", "api/", "alerts/", "feed/", "stories/", "log/", "assets/js/log.js", "offline/", "data/navigate.json", "assets/js/navigate.js", "assets/js/bs.js", "data/weather.json", "data/calendar.json", "data/contacts.json", "weather/", "trek/", "assets/js/trek.js", "assets/js/trekcard.js", "assets/js/homemap.js", "fuel/", "assets/js/fuel.js", "data/fuel.json", "health/", "assets/js/health.js", "data/health.json", "assets/js/trekcheck.js", "assets/js/homeinfo.js", "data/caan.json", "data/geo/trekinfo.json", "data/trek-meta.json", "data/trek-permits.json", "data/geo/treks.geojson", "data/travel-advisory.json", "contacts/", "privacy/", "safety/", "route/", "assets/js/wxmodel.js", "earthquakes/", "air/", "assets/js/quakes.js", "assets/js/route.js", "assets/js/routeeng.js", "assets/js/nearby.js", "assets/js/askpop.js", "assets/js/watch.js", "assets/js/services.js", "assets/js/contacts.js", "assets/js/weather.js", "map/", "rivers/", "roads/", "assets/js/stories.js", "assets/js/district.js", "patro/", "ask/", "patro/gati.ics", "assets/js/patro.js", "manifest.webmanifest", "assets/css/gati.css", "assets/sdg/sdg-01.webp", "assets/sdg/sdg-09.webp", "assets/sdg/sdg-11.webp", "assets/sdg/sdg-13.webp", "assets/sdg/sdg-16.webp", "assets/fonts/fonts.css", "assets/js/common.js",
   "assets/js/home.js", "assets/js/viz.js", "assets/js/homeviz.js", "assets/js/pageviz.js", "assets/js/sources.js", "flights/", "assets/js/flights.js", "assets/js/globallive.js", "assets/vendor/leaflet/leaflet.css", "assets/vendor/leaflet/leaflet.js", "assets/js/mapx.js", "assets/js/affectcore.js", "assets/js/affected.js", "assets/js/todaycard.js", "assets/js/motion.js", "assets/js/sky.js", "assets/js/dash.js", "assets/js/push.js", "assets/js/search.js", "assets/js/locale.js", "assets/vendor/protomaps-leaflet/protomaps-leaflet.js", "data/offline/basemap.json", "data/i18n/index.json", "data/country.json", "affected/", "assets/img/brand/logo-h.png", "assets/img/brand/logo-h-white.png", "assets/img/brand/logo-h-base.png", "assets/img/brand/logo-h-arc1.png", "assets/img/brand/logo-h-arc2.png", "assets/img/brand/logo-h-arc3.png", "assets/img/brand/logo-h-white-base.png", "assets/img/brand/logo-h-white-arc1.png", "assets/img/brand/logo-h-white-arc2.png", "assets/img/brand/logo-h-white-arc3.png", "assets/img/brand/mark-192.png", "assets/img/brand/favicon-32.png", "assets/img/icon-192.png", "data/alerts.json", "data/districts.json", "data/districts.geojson", "data/roads.json", "data/rivers.json", "data/updates.json", "data/geo/roads.geojson", "data/highways.json", "assets/js/highways.js", "data/geo/rivers.geojson", "data/geo/provinces.geojson", "assets/js/maplayers.js", "assets/js/arnab.js", "data/arnab-advisory.json", "data/sources.json", "data/source-health.json"];

diff --git a/assets/css/gati.css b/assets/css/gati.css
@@ -2248,3 +2248,22 @@ html[data-theme=dark] .sst-link,html[data-theme=dark] .sst-nofeed{background:rgb
 .vz:has(.vzh>a:focus-visible){outline:2px solid #F28C1E;outline-offset:2px}
 /* links, buttons and scrollers inside the card keep working on their own */
 .vz :where(a[href],button,summary,details,[tabindex]):not(.vzh>a){position:relative;z-index:1}
+
+/* ===== Nepal Now: a status line and a "Right now" list with real figures ===== */
+.hmstatus{display:flex;flex-wrap:wrap;align-items:baseline;gap:4px 12px;margin:6px 0 12px;padding:10px 14px;border-radius:12px;border:1px solid var(--line);border-left:6px solid var(--c);background:var(--surface)}
+.hmstatus b{font-size:1.02rem;line-height:1.35}
+.hmstatus span{font-size:var(--fs-6);color:var(--slate)}
+.hmnow{list-style:none;margin:0 0 14px;padding:0;display:grid;gap:6px}
+.hmnow a{display:grid;grid-template-columns:auto 1fr;column-gap:10px;align-items:center;text-decoration:none;color:var(--ink);border:1px solid var(--line);border-radius:12px;background:var(--surface);padding:8px 12px;min-height:48px}
+.hmnow a:hover{border-color:var(--slate)}
+.hmnow i{grid-row:1/4;width:10px;height:38px;border-radius:5px;background:var(--c)}
+.hmnow .hmk{font-size:var(--fs-6);color:var(--slate);line-height:1.2}
+.hmnow b{font-size:.98rem;line-height:1.3;overflow-wrap:anywhere}
+.hmnow small{font-size:var(--fs-6);color:var(--slate);line-height:1.25}
+.hmnow a::after{display:none}
+@media(max-width:899px){.hmnow{grid-template-columns:1fr 1fr}.hmnow a{padding:8px 10px}}
+@media(max-width:380px){.hmnow{grid-template-columns:1fr}}
+.hmside h3:first-child{display:block}
+.hmd.me{stroke:var(--ink);stroke-width:2.2;paint-order:stroke}
+.hmnow a,.hmnow a *{text-decoration:none!important}
+.hmnow a b{color:var(--ink)}

diff --git a/scripts/render.py b/scripts/render.py
@@ -291,6 +291,18 @@ def today_card(alerts, now):
             when = dt.datetime.fromisoformat(o["issued"]); wtxt = f"{when.day} {MON_EN[when.month - 1]}"
             tiles.append(("DHM · नापिएको वर्षा · Rain", (f"{wet[0]['ne']} {wet[0]['rain_mm']} मि.मि.".translate(DEV) if wet else "कुनै केन्द्रमा वर्षा छैन"),
                           (f"Rain at {len(wet)} of {len(o['stations'])} stations" if wet else f"No rain at {len(o['stations'])} stations") + f" · {wtxt}", "#1a73e8" if wet else "#2E8B57"))
+        if o and o.get("stations"):
+            hi = max((x for x in o["stations"] if x.get("tmax_c") is not None), key=lambda x: x["tmax_c"], default=None)
+            lo = min((x for x in o["stations"] if x.get("tmin_c") is not None), key=lambda x: x["tmin_c"], default=None)
+            if hi and lo:
+                nm_s = lambda x: x["en"].replace(" Airport", "")
+                tiles.append(("DHM · तापक्रम · Temperature", f"अधिकतम {hi['tmax_c']:g}° · न्यूनतम {lo['tmin_c']:g}°".translate(DEV),
+                              f"Warmest {nm_s(hi)}, coldest {nm_s(lo)}", "#E8590C"))
+        fc = ((wx or {}).get("forecast24") or {}).get("country") or {}
+        if fc.get("analysis_ne"):
+            big = re.sub(r"\s*रहेको छ$", "", re.sub(r"^हाल\s+नेपालमा\s+", "", fc["analysis_ne"].rstrip(" ।")))   # keep the system, drop "currently over Nepal there is"
+            small = re.sub(r"^(Currently,?\s+there is|The country is currently under the|Currently,?)\s+", "", fc.get("analysis_en", "")).strip()
+            tiles.append(("DHM · मौसम प्रणाली · Weather system", big, small[:1].upper() + small[1:], "#0284C7"))
         qk = sorted([x for x in alerts if x.get("hazard") == "earthquake" and x["trust"] == "Official"], key=lambda x: x["sent"], reverse=True)
         if qk:
             q = qk[0]; qi = (q.get("info") or {}); mag = ((qi.get("en") or {}).get("params") or {}).get("gati:magnitude", "")
@@ -299,16 +311,16 @@ def today_card(alerts, now):
             where_en = ", ".join(nm[c]["en"] for c in (q.get("districts") or [])[:1] if c in nm)
             tiles.append((f"{ag} · पछिल्लो भूकम्प · Earthquake", (mag.translate(DEV) + (" · " + where_ne if where_ne else "")).strip(" ·") or "भूकम्प",
                           f"{mag}{', ' + where_en if where_en else ''} · {qt.day} {MON_EN[qt.month - 1]}, {qt.strftime('%I:%M %p').lstrip('0')}", "#5E35B1"))
-        cols = 2; gap = 12; tw = (fw - gap * (cols - 1)) // cols; th = 84
-        for n, (head, big, small, col) in enumerate(tiles[:4]):
-            tx, ty = fx + (n % cols) * (tw + gap), y + (n // cols) * (th + 10)
+        cols = 2; gap = 10; tw = (fw - gap * (cols - 1)) // cols; th = 74 if not sq else 84
+        for n, (head, big, small, col) in enumerate(tiles[:6]):
+            tx, ty = fx + (n % cols) * (tw + gap), y + (n // cols) * (th + 8)
             if ty + th > H - 84:
                 break
             d.rounded_rectangle([tx, ty, tx + tw, ty + th], radius=12, fill="#121C30", outline="#24314A")
             d.rounded_rectangle([tx, ty, tx + 6, ty + th], radius=3, fill=col)
-            d.text((tx + 16, ty + 7), wrap(d, head, font("SemiBold", 15), tw - 26, 1)[0], font=font("SemiBold", 15), fill="#7FD1D8")
-            d.text((tx + 16, ty + 26), wrap(d, big, font("Bold", 23), tw - 26, 1)[0], font=font("Bold", 23), fill="#FFFFFF")
-            d.text((tx + 16, ty + 58), wrap(d, small, font("Regular", 15), tw - 26, 1)[0], font=font("Regular", 15), fill="#C9D3DF")
+            d.text((tx + 16, ty + (7 if sq else 4)), wrap(d, head, font("SemiBold", 15), tw - 26, 1)[0], font=font("SemiBold", 15), fill="#7FD1D8")
+            d.text((tx + 16, ty + (26 if sq else 21)), wrap(d, big, font("Bold", 23 if sq else 21), tw - 26, 1)[0], font=font("Bold", 23 if sq else 21), fill="#FFFFFF")
+            d.text((tx + 16, ty + (58 if sq else 50)), wrap(d, small, font("Regular", 15), tw - 26, 1)[0], font=font("Regular", 15), fill="#C9D3DF")
         d.line([pad, H - 78, W - pad, H - 78], fill="#24314A", width=2)
         d.text((pad, H - 64), "गतिले आधिकारिक स्रोत मात्र प्रसारण गर्छ; यो चेतावनी होइन। · Gati relays official sources; this is not a warning.", font=font("Regular", 18 if not sq else 17), fill="#C9D3DF")
         d.text((pad, H - 36), SITE.replace("https://", "").rstrip("/"), font=font("SemiBold", 19), fill="#7FD1D8")
